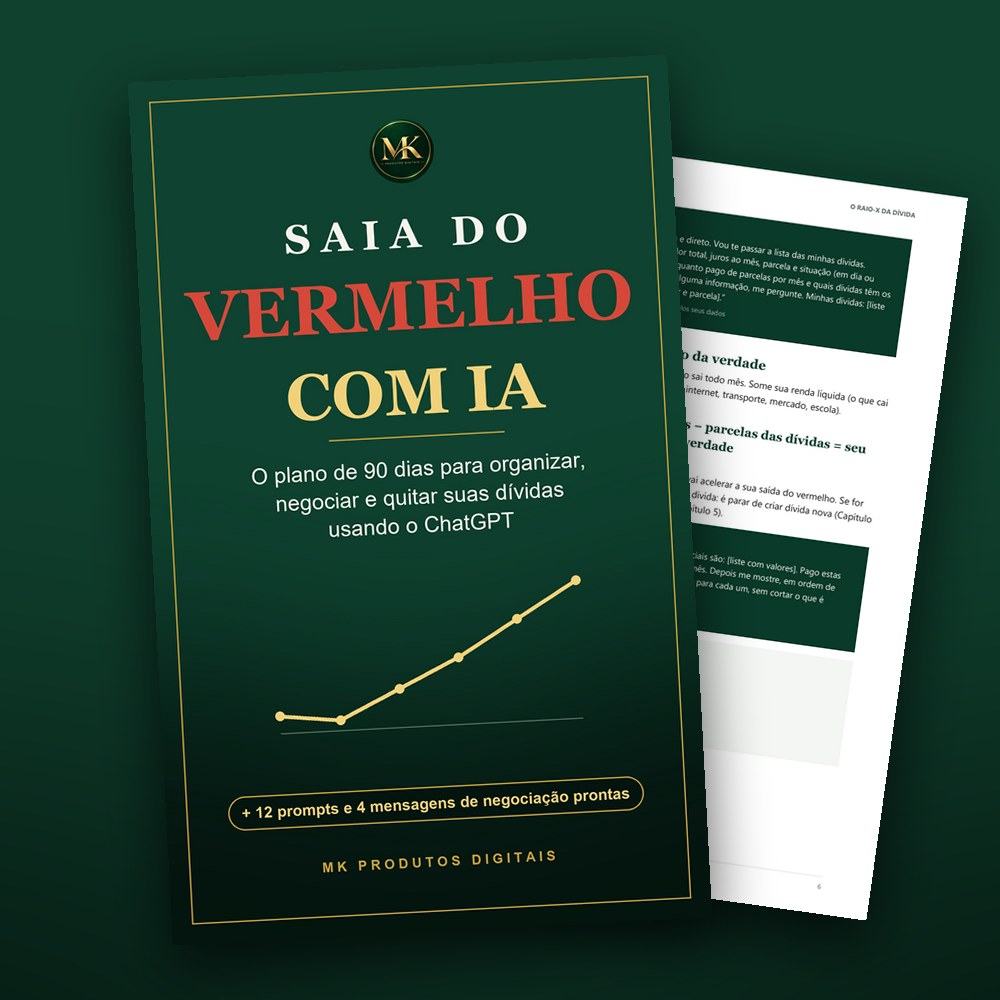
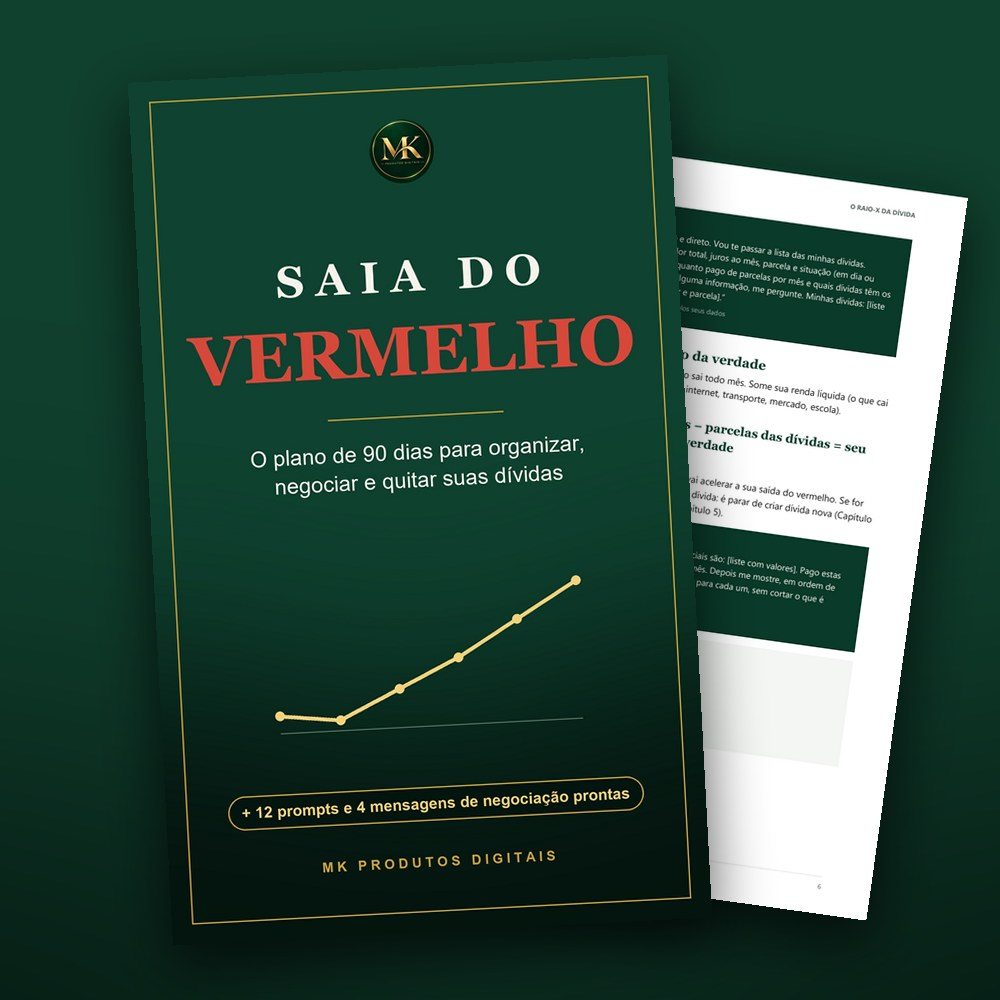
Renomeia ebook para Saia do Vermelho (remove 'com IA')

Changed region(s): [[0.186, 0.217, 0.651, 0.558]]

diff --git a/index.html b/index.html
@@ -246,11 +246,11 @@ document.addEventListener('click', function (e) {
 
       <div class="grid">
         <article class="card">
-          <div class="thumb"><span class="badge-new">NOVO</span><img src="ebook.jpg" alt="Ebook Saia do Vermelho com IA"></div>
+          <div class="thumb"><span class="badge-new">NOVO</span><img src="ebook.jpg" alt="Ebook Saia do Vermelho"></div>
           <div class="body">
             <span class="tag">Sair das dívidas</span>
-            <h3>Saia do Vermelho com IA</h3>
-            <p>O plano de 90 dias para organizar, negociar e quitar suas dívidas usando o ChatGPT.</p>
+            <h3>Saia do Vermelho</h3>
+            <p>O plano de 90 dias para organizar, negociar e quitar suas dívidas.</p>
             <ul>
               <li>Descubra quanto deve, para quem e com qual juro</li>
               <li>Saiba qual dívida pagar primeiro</li>
